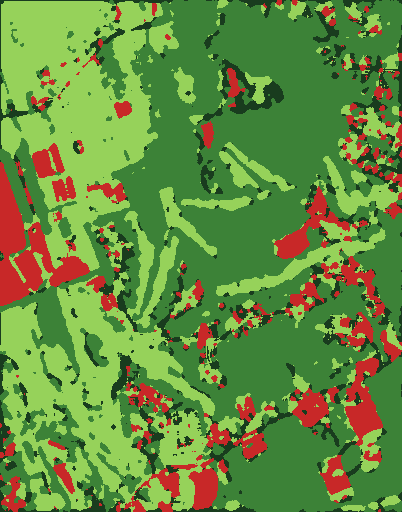
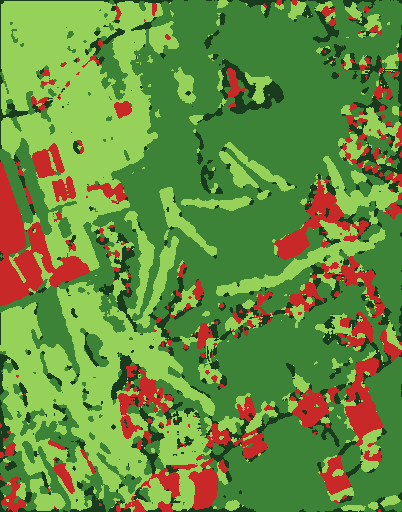
Make OB a real boundary instead of a color guess
OB was "non-green pixel outside a fixed 78-yd centerline tube": it
penalized dormant/brown turf, invented OB strips between parallel holes,
lumped trees in as OB, and was coarse/fuzzy (one nearest-neighbor mask
pixel ~3yds, blobby after despeckle).

Now OB = outside the real OSM course-boundary polygon, vector-exact:

Baker (tools/):
- fetch_overpass also emits the boundary geometry (.b out geom)
- boundary_rings + _stitch_rings chain relation member-ways into closed
  rings (a multipolygon may be several closed outer rings)
- fetch_course_global projects -> course.boundary
- build_surface_mask envelope uses the boundary polygon (corridor tube
  only as fallback)

Game (game.js):
- HOLE._boundary; surfaceAt returns "ob" outside the boundary (before
  the mask, so the mask only labels turf inside)
- trees decoupled from OB: isOB = rest === "ob" (woods play as they lie)
- OOB overlay tints true OB only, not woods
- self-heal: drop boundary-OB for a hole whose tee->pin line is >40%
  outside the boundary (OSM coverage gap) -> falls back to mask

Re-baked pinehurst-no2, st-andrews-old, four-oaks-dracut (rel/multipolygon
path). Verified: Pinehurst 18/18 clean, St Andrews 18/18 (h17 Road-Hole
corner = legit OB), Four Oaks h10 auto-dropped (parcel gap). Cache-bust v71.

diff --git a/game.js b/game.js
@@ -333,7 +333,7 @@ function loadSurfaceMask(maskRec, onReady) {
     const oob = document.createElement("canvas"); oob.width = w; oob.height = h;
     const oc = oob.getContext("2d"), od = oc.createImageData(w, h);
     for (let i = 0; i < lab.length; i++) {
-      if (lab[i] === 0 || lab[i] === 3) { // OB or WOODS
+      if (lab[i] === 0) { // OB only (woods are no longer out of bounds)
         od.data[i * 4] = 204; od.data[i * 4 + 1] = 30; od.data[i * 4 + 2] = 30; od.data[i * 4 + 3] = 110;
       }
     }
@@ -363,6 +363,9 @@ function surfaceAt(x, y) {
   if (inAnyPoly(x, y, s.bunker)) return "bunker"; // sand
   if (inAnyPoly(x, y, s.green)) return "green";
   if (inAnyPoly(x, y, s.tee)) return "fairway";   // tee boxes play like fairway
+  // Real OB = outside the course-boundary polygon (vector-exact, not the coarse
+  // aerial mask). Tested before the mask so the mask only labels turf inside.
+  if (HOLE._boundary && !inAnyPoly(x, y, HOLE._boundary)) return "ob";
   const m = maskClassAt(x, y);
   if (m) return m;                                // fairway | rough | woods | ob
   // no mask: fall back to OSM polygons
@@ -709,7 +712,7 @@ function rollStep(b) {
       return;
     }
     const rest = surfaceAt(b.x, b.y);
-    const isOB = rest === "woods" || rest === "ob"; // trees + aerial-mask out of bounds
+    const isOB = rest === "ob"; // only true out-of-bounds; trees play as they lie
     if (rest === "water" || (isOB && TUNE.obPenalty)) {
       // hazard / out of bounds: +1 penalty, drop at last safe spot
       state.strokes += 1;
@@ -2657,6 +2660,7 @@ function setHole(rec) {
     surfaces: src.surfaces,
     aerial: src.aerial || null,
     isGlobal: glob,
+    _boundary: (src.boundary && src.boundary.length) ? src.boundary : null, // real OB line
   };
   if (glob) {
     // share precomputed DEM + topo + aerial across every hole (load once)
@@ -2699,6 +2703,18 @@ function setHole(rec) {
     HOLE._mask = null;
     const target = HOLE;
     loadSurfaceMask(src.surfaceMask, (m) => { if (HOLE === target) HOLE._mask = m; });
+  }
+  // Boundary-OB only where the OSM boundary actually covers the hole. If the
+  // tee->pin line is largely outside it (mapping gap, e.g. a multi-parcel course
+  // missing a hole), drop boundary-OB for this hole and fall back to the mask —
+  // better than playing the whole hole as out of bounds.
+  if (HOLE._boundary) {
+    const t = HOLE.teePos, p = HOLE.holePos, N = 20; let outside = 0;
+    for (let i = 0; i <= N; i++) {
+      const x = t.x + (p.x - t.x) * i / N, y = t.y + (p.y - t.y) * i / N;
+      if (!inAnyPoly(x, y, HOLE._boundary)) outside++;
+    }
+    if (outside > N * 0.4) HOLE._boundary = null;
   }
   WORLD.w = src.world.w;
   WORLD.h = src.world.h;

diff --git a/index.html b/index.html
@@ -316,6 +316,6 @@
     </div>
   </div>
 
-  <script src="game.js?v=69"></script>
+  <script src="game.js?v=71"></script>
 </body>
 </html>

diff --git a/tools/fetch_course.py b/tools/fetch_course.py
@@ -263,14 +263,18 @@ def _classify_px(r, g, b, edge, fw_cut, inside):
     return MASK_FAIRWAY if v >= fw_cut else MASK_ROUGH
 
 
-def build_surface_mask(img_path, aerial, world, woods_world, corridors, out_path):
+def build_surface_mask(img_path, aerial, world, woods_world, corridors, out_path,
+                       boundary=None):
     """Classify the baked aerial into a coarse fairway/rough/woods/OOB raster.
     Returns {file,w,h,toWorld:[...]} (mask px -> world affine) or None to skip.
 
     img_path: baked aerial JPG; aerial: its {w,h,toWorld}; world: {w,h};
     woods_world: OSM woods polygons ([{x,y},...], world units) unioned in as a
-    strong WOODS prior; corridors: hole centerlines ([{x,y},...], world units)
-    buffered into the playing envelope (OOB only outside it); out_path: PNG out."""
+    strong WOODS prior; out_path: PNG out.
+
+    Playing envelope (OOB only outside it): the real course-boundary polygon
+    `boundary` ([[{x,y},...], ...], world units) when available; otherwise falls
+    back to `corridors` (hole centerlines buffered by MASK_CORRIDOR_UNITS)."""
     if Image is None or not aerial:
         return None
     try:
@@ -290,18 +294,26 @@ def build_surface_mask(img_path, aerial, world, woods_world, corridors, out_path
         to_world = [a * ratio, b * ratio, c, d * ratio, e * ratio, f]
         w2p = invert_affine(*to_world)
 
-        # playing envelope: fat the hole centerlines into a mask of "inside the course"
+        # playing envelope = "inside the course". Prefer the real boundary polygon
+        # (OOB = a true property line); fall back to fattened hole centerlines.
         inside_im = Image.new("L", (mw, mh), 0)
-        if corridors and w2p is not None:
+        if w2p is not None:
             ia, ib, ic, id_, ie, if_ = w2p
-            units_per_px = math.hypot(to_world[0], to_world[3]) or 1.0
-            width_px = max(3, round(2 * MASK_CORRIDOR_UNITS / units_per_px))
             d_ie = ImageDraw.Draw(inside_im)
-            for line in corridors:
-                pts = [(ia * p["x"] + ib * p["y"] + ic,
-                        id_ * p["x"] + ie * p["y"] + if_) for p in line]
-                if len(pts) >= 2:
-                    d_ie.line(pts, fill=255, width=width_px, joint="curve")
+            if boundary:
+                for ring in boundary:
+                    pts = [(ia * p["x"] + ib * p["y"] + ic,
+                            id_ * p["x"] + ie * p["y"] + if_) for p in ring]
+                    if len(pts) >= 3:
+                        d_ie.polygon(pts, fill=255)
+            elif corridors:
+                units_per_px = math.hypot(to_world[0], to_world[3]) or 1.0
+                width_px = max(3, round(2 * MASK_CORRIDOR_UNITS / units_per_px))
+                for line in corridors:
+                    pts = [(ia * p["x"] + ib * p["y"] + ic,
+                            id_ * p["x"] + ie * p["y"] + if_) for p in line]
+                    if len(pts) >= 2:
+                        d_ie.line(pts, fill=255, width=width_px, joint="curve")
         ins = inside_im.load()
 
         # adaptive fairway/rough brightness split from the green-turf pixels only
@@ -353,11 +365,14 @@ def fetch_overpass(boundary_id, cache, kind="way"):
             return json.load(f)
     # `way` or `rel` boundary -> area; relations (multipolygon boundaries) work too.
     sel = "rel" if kind in ("rel", "relation") else "way"
-    q = (f'[out:json][timeout:90];{sel}({boundary_id});map_to_area->.oc;'
+    # Bind the boundary to .b, query play features inside its area, AND emit the
+    # boundary geometry itself (.b out geom) so we can bake the real OB line.
+    q = (f'[out:json][timeout:90];{sel}({boundary_id})->.b;.b map_to_area->.oc;'
          f'(way(area.oc)["golf"];'
          f'way(area.oc)["natural"~"wood|water"];'
          f'way(area.oc)["landuse"="grass"];);'
-         f'out tags geom;')
+         f'out tags geom;'
+         f'.b out geom;')
     req = urllib.request.Request(
         OVERPASS + "?" + urllib.parse.urlencode({"data": q}),
         headers={"User-Agent": UA})
@@ -367,6 +382,49 @@ def fetch_overpass(boundary_id, cache, kind="way"):
         with open(cache, "w") as f:
             json.dump(data, f)
     return data
+
+
+def _stitch_rings(ways):
+    """Chain open member-way arcs into closed ring(s) by matching shared
+    endpoints (a relation's outer boundary is often split across several ways).
+    ways: list of [{"lat","lon"},...]. Returns list of rings."""
+    def same(a, b):
+        return abs(a["lat"] - b["lat"]) < 1e-9 and abs(a["lon"] - b["lon"]) < 1e-9
+    segs = [list(w) for w in ways if w and len(w) >= 2]
+    rings = []
+    while segs:
+        ring = segs.pop(0)
+        changed = True
+        while changed and not same(ring[0], ring[-1]):
+            changed = False
+            for i, s in enumerate(segs):
+                if same(ring[-1], s[0]):    ring += s[1:]
+                elif same(ring[-1], s[-1]): ring += list(reversed(s))[1:]
+                elif same(ring[0], s[-1]):  ring = s[:-1] + ring
+                elif same(ring[0], s[0]):   ring = list(reversed(s))[1:] + ring
+                else:                       continue
+                segs.pop(i); changed = True; break
+        rings.append(ring)
+    return rings
+
+
+def boundary_rings(data, boundary_id, kind="way"):
+    """Pull the course-boundary polygon ring(s) from an Overpass response.
+    Returns a list of rings, each a list of {"lat","lon"} points (outer rings
+    only; inner/clubhouse holes are dropped — used only for an inside/outside
+    test). [] if the boundary geometry isn't present."""
+    if kind in ("rel", "relation"):
+        for e in data.get("elements", []):
+            if e.get("type") == "relation" and e.get("id") == boundary_id:
+                outers = [m["geometry"] for m in e.get("members", [])
+                          if m.get("type") == "way" and m.get("geometry")
+                          and m.get("role") in (None, "", "outer")]
+                return _stitch_rings(outers)
+        return []
+    for e in data.get("elements", []):
+        if e.get("type") == "way" and e.get("id") == boundary_id and e.get("geometry"):
+            return [e["geometry"]]
+    return []
 
 
 # --- Geometry helpers (plain math, no deps) --------------------------------

diff --git a/tools/fetch_course_global.py b/tools/fetch_course_global.py
@@ -223,6 +223,10 @@ def main():
     else:
         data = fc.fetch_overpass(args.boundary_way, args.cache)
     els = [e for e in data["elements"] if "geometry" in e and e.get("tags")]
+    # Real course-boundary polygon (the OB line). projected to world below.
+    _b_id = args.boundary_rel or args.boundary_way
+    _b_kind = "rel" if args.boundary_rel else "way"
+    boundary_geom = fc.boundary_rings(data, _b_id, _b_kind)
     by = lambda g: [e for e in els if e["tags"].get("golf") == g]
     byt = lambda k, v: [e for e in els if e["tags"].get(k) == v]
     greens, bunkers, waters, tees = by("green"), by("bunker"), by("water_hazard"), by("tee")
@@ -313,6 +317,13 @@ def main():
         return {"x": round((m[0] - MINX) * SCALE + MARGIN, 2),
                 "y": round((MAXY - m[1]) * SCALE + MARGIN, 2)}
     def polyU(geom): return [W(p) for p in projall(geom)]
+
+    boundary_world = [polyU(r) for r in boundary_geom if len(r) >= 3]
+    if boundary_world:
+        print(f"boundary: {len(boundary_world)} ring(s), "
+              f"{sum(len(r) for r in boundary_world)} pts")
+    else:
+        print("! no course boundary geometry — OB falls back to corridor tube")
 
     world = {"w": round((MAXX - MINX) * SCALE + 2 * MARGIN, 2),
              "h": round((MAXY - MINY) * SCALE + 2 * MARGIN, 2)}
@@ -439,6 +450,8 @@ def main():
               "world": world, "aerial": aerial, "surfaces": surfaces,
               "synthFairways": synth,
               "holes": sorted(out_holes, key=lambda h: h["num"])}
+    if boundary_world:
+        course["boundary"] = boundary_world
     if dem:
         course["dem"] = dem
     out = os.path.join(os.path.dirname(__file__), "..", "courses", args.id + ".json")
@@ -474,7 +487,8 @@ def main():
                 corridors = [[W(p) for p in lm] for _, lm in hole_lines]
                 mask = fc.build_surface_mask(os.path.join(out_dir, rel), aerial, world,
                                              surfaces["woods"], corridors,
-                                             os.path.join(out_dir, mrel))
+                                             os.path.join(out_dir, mrel),
+                                             boundary=boundary_world)
                 if mask:
                     mask["file"] = mrel
                     course["surfaceMask"] = mask